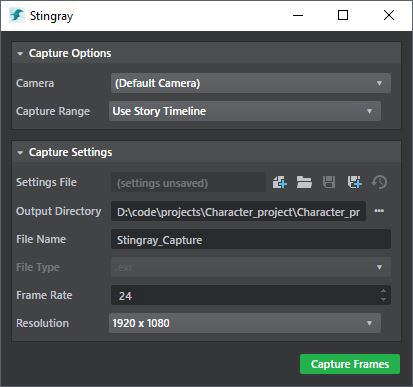
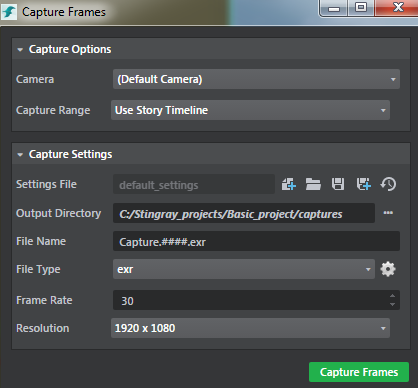
Minor updates to Capture Tool and other topics

diff --git a/source/stingray_help/lighting_rendering/capture_frames_tool.md b/source/stingray_help/lighting_rendering/capture_frames_tool.md
@@ -30,13 +30,17 @@ You can also capture negative frames, which use following naming convention; *<F
 <dl>
 
 <dt>Settings File</dt>
-<dd>Lets you create a new settings file or open an existing file.</dd>
+<dd>Lets you create a new settings file or open an existing file. To create a new capture settings file, click the ![](../images/icon_scriptEd_new.png) icon or right-click in the **Asset Browser** and select **Create > Capture Settings**.</dd>
 
 <dt>Output Directory</dt>
 <dd>The directory where your output is saved.</dd>
 
 <dt>File Name</dt>
-<dd>The name that is used for each file(s) that is saved.</dd>
+<dd>The name that is used for each file(s) that is saved.The file name contains #### frame padding to indicate the placement of frame numbers in the output files. You can have a file name with any number of # paddings. Note that there should be at least one number padding in the file name.
+
+
+The # frame paddings could be in the beginning, middle and the end of the file name. For example, *###Filename.exr* would output frames *001Filename.exr*, *002Filename.exr*, ..,*010Filename.exr* and so on. If you have multiple # frame padding patterns, the capture engine always uses the last found ## pattern in a name to create the padding. For example *My###Filename-####Capture.exr* will output the frames as *My###Filename-0000Capture.exr*, *My###Filename-0001Capture.exr*, *My###Filename-0002Capture.exr* and the first left aligned pattern is ignored.
+</dd>
 
 <dt>File Type</dt>
 <dd>Lets you select a file type for your output. Currently, frames are exported using the OpenEXR format (.exr). The tool delivers three different buffers in OpenEXR when it captures:
@@ -51,4 +55,6 @@ You can also capture negative frames, which use following naming convention; *<F
 <dd>The frame rate that is used to simulate the game or editor playback while capturing.</dd>
 
 <dt>Resolution</dt>
-<dd>Lets you set a resolution for your capture. Select 1920 x 1080 (default), 1280 x 780, or enter a custom resolution.</dd>
+<dd>Lets you set a resolution for your capture. Select 1920 x 1080 (default), 1280 x 780, or enter a custom resolution. The custom resolution you set here is available only when capturing from Story and not when capturing from Flow.</dd>
+
+>**Note:** Compile the level or press F5 before capturing to take into account the level changes, especially if you add back to the Capture Frames tool a camera previously used for frame capturing and then deleted from the level.

diff --git a/source/stingray_help/creating_effects/enable_apex_cloth.md b/source/stingray_help/creating_effects/enable_apex_cloth.md
@@ -21,7 +21,10 @@
 		A cloth resource is created and is visible under the 'apex cloth' section in the Outliner.
 	4. Select the cloth resource and in the Properties Panel, browse for the corresponding cloth definition (.apx files) to bind to the mesh.
 
-		![](../images/apex_cloth_bind.png)
+		>Note: APX files are generated when exporting APEX cloth created with the PhysX DCC plug-ins. These files are automatically imported by Stingray when you import an FBX with APEX cloth.
+
+	 	![](../images/apex_cloth_bind.png)
+
 	5. Repeat steps 2-4 for each mesh that should be bound to an APEX cloth.
 
 6. Restart the editor engine (Ctrl + F6).

diff --git a/source/stingray_help/getting_started/interface_overview/hotkeys.md b/source/stingray_help/getting_started/interface_overview/hotkeys.md
@@ -85,10 +85,11 @@
 | Action  | Hotkey |
 | ------------- | ------------- |
 | Enter paint mode  | B |
-| Brush radius  | B + right-drag |
-| Brush falloff  | N + right-drag |
-| Brush strength  | M + right-drag |
+| Brush radius  | B + left-drag left or right |
+| Brush falloff  | N + left-drag left or right |
+| Brush strength  | M + left-drag left or right |
 
+>Note: Dragging left decreases the value and dragging right increases the value.
 
 ### Miscellaneous
 

diff --git a/source/stingray_help/getting_started/set_up_project/template_projects.md b/source/stingray_help/getting_started/set_up_project/template_projects.md
@@ -55,6 +55,8 @@ Use a Steam VR device to visually interact with the scenes in this template.</dd
 This template supports Google Cardboard for iOS and Android, and Google Daydream with Daydream controller support for Android devices.
 
 Use iOS devices, Android 7.x+ devices like Nexus 9 or a Daydream device like Pixel with this template.
+
+>Note: Google VR template won't run on *Normal* flavor or *localhost* (Windows).
 </dd>
 
 <dt>VR Gear</dt>
